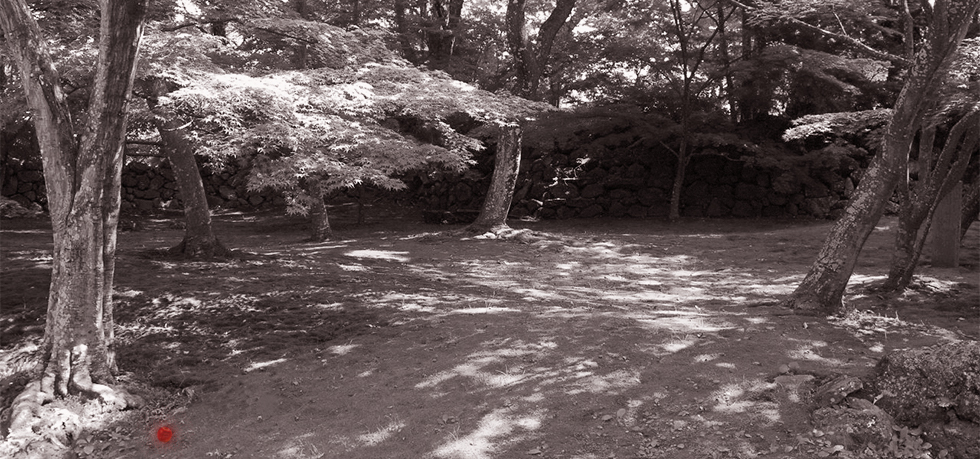
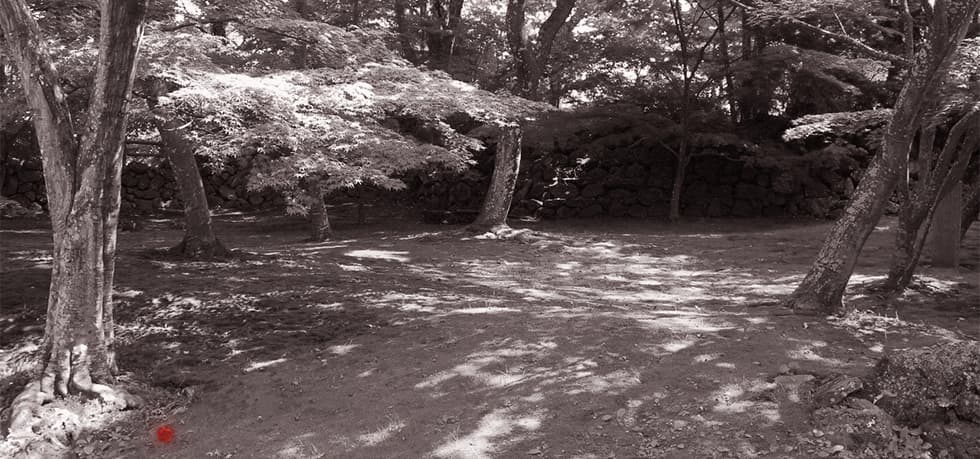
・GitHubへのリンク作成 ・Profile.vueにPrettierを適用 ・画像の圧縮

diff --git a/src/components/Profile.vue b/src/components/Profile.vue
@@ -3,10 +3,21 @@
     <h3 class="profile__title">Profile</h3>
     <div class="profile__content">
       <div class="profile__content__photo">
-        <img src="../assets/profile.jpg" width="500"/>
+        <img src="../assets/profile.jpg" width="500" />
       </div>
       <div class="profile__content__txt">
-        <p class="profile__content__txt__name">内山 友和</p>
+        <p class="profile__content__txt__name"
+          >内山 友和<a
+            href="https://github.com/tomouchi"
+            target="_blank"
+            title="内山友和のGitHubページを新しいウィンドウで開く"
+          >
+            <img
+              src="/images/GitHub-Mark-32px.png"
+              alt="内山友和のGitHubページを新しいウィンドウで開く"
+            />
+          </a>
+        </p>
         <dl class="profile__content__txt__other">
           <div class="profile__content__txt__other__ele">
             <dt>出身地</dt>
@@ -33,23 +44,28 @@
 <style lang="scss" scoped>
 .profile {
   margin-top: 30px;
+
   &__title {
     border-bottom: thin solid;
     font-size: 1.7rem;
     line-height: 1.1;
   }
+
   &__content {
     margin-top: 15px;
     @media (min-width: 768px) {
       display: flex;
     }
+
     &__photo {
       width: 150px;
       height: 150px;
+
       img {
         width: 100%;
       }
     }
+
     &__txt {
       box-sizing: border-box;
       display: flex;
@@ -60,18 +76,27 @@
       @media (min-width: 768px) {
         padding: 15px 0 7px 15px;
       }
+      &__name {
+        img {
+          padding-left: 10px;
+          vertical-align: -10px;
+        }
+      }
+
       &__other {
         padding-top: 17px;
         display: flex;
         flex-direction: column;
         flex-grow: 1;
         justify-content: space-between;
+
         &__ele {
           display: flex;
           justify-content: space-between;
+
           dt {
             &:after {
-              content: ':';
+              content: ":";
             }
           }
         }
